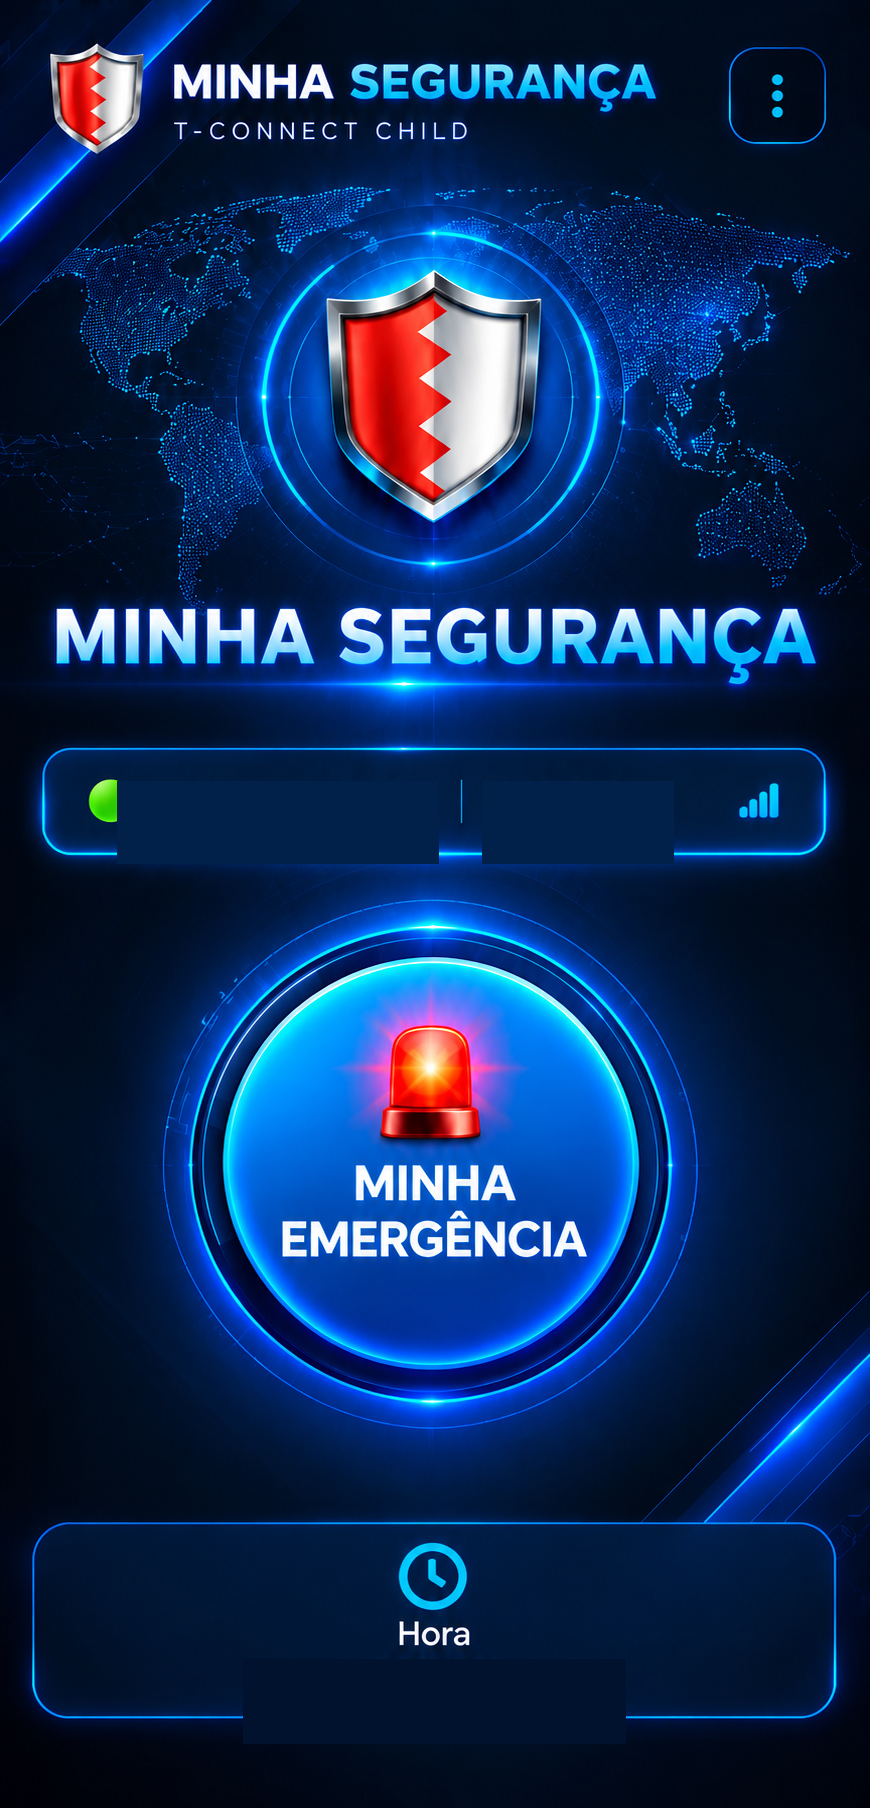
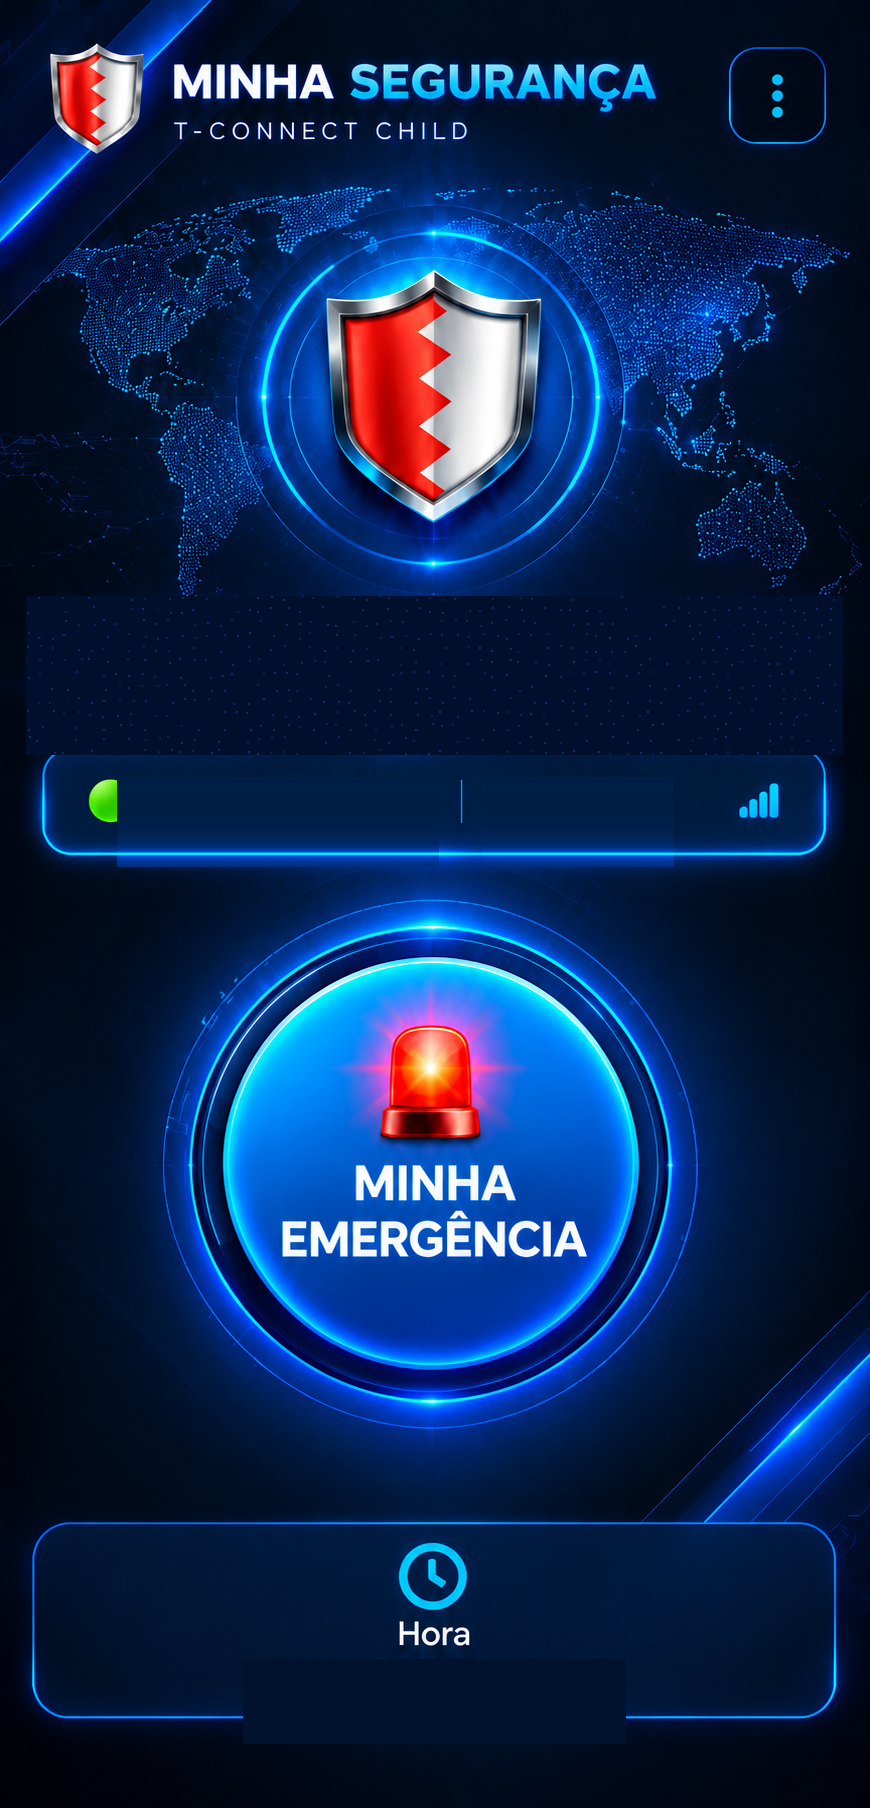
v2.39.42: titulo 'My Security' + pilula sem fundo visivel
- Titulo do meio passa a 'My Security' (azul), com a area reconstruida com a
  textura de pontos do mapa (sem caixa/fundo visivel).
- Pilula de estado: apaguei o valor preservando o gradiente real da pilula, por
  isso deixa de aparecer o fundo/caixa; estado ajustado para caber (rotulos curtos).
- Horas continuam ao vivo; botao anima ao clicar; menu no mesmo design.

Claude-Session: https://claude.ai/code/session_01Jn9EH4saRaSywTbMPe9pV1

Changed region(s): [[0.0621, 0.3097, 0.9621, 0.4336], [0.1241, 0.4646, 0.5276, 0.4956], [0.5586, 0.4646, 0.7759, 0.4956]]

diff --git a/tconnect/android-native/app/src/main/assets/tc236/child/js/app.js b/tconnect/android-native/app/src/main/assets/tc236/child/js/app.js
@@ -391,7 +391,14 @@ function render(){
 }
 function pairView(){return `<section class="childbox" id="pairing-area"><div class="shield">⌁</div><h1>Vincular dispositivo</h1>${state.deviceCode?`<div class="notice" role="status">Já vinculado como <b>${esc(state.deviceName||'Child')}</b>. Pode revincular aqui ou <button class="text-btn" style="color:#38bdf8;background:none;border:0;cursor:pointer;text-decoration:underline" onclick="state.forcePair=false;render()">voltar ao painel</button>.</div>`:''}<p>Comece diretamente pelo QR Code, código ou link criado pelo Guardian. Não é necessário fazer login neste aplicativo.</p>${state.pairMessage?`<div class="notice" role="status">${esc(state.pairMessage)}</div>`:''}<div class="pair-tabs"><button class="btn primary" onclick="document.getElementById('qr-section').hidden=false;document.getElementById('code-section').hidden=true;document.getElementById('link-section').hidden=true;startQr()">▣ Ler QR Code</button><button class="btn" onclick="stopQr();document.getElementById('qr-section').hidden=true;document.getElementById('code-section').hidden=false;document.getElementById('link-section').hidden=true"># Código</button><button class="btn" onclick="stopQr();document.getElementById('qr-section').hidden=true;document.getElementById('code-section').hidden=true;document.getElementById('link-section').hidden=false">↗ Link</button></div><div id="qr-section" class="qr-child-section"><div id="qr-reader"></div><small>O QR é lido diretamente no aplicativo Minha Segurança.</small></div><div id="code-section" hidden><form onsubmit="pair(event)" class="pair-form"><label>Código de vinculação<input name="invite" required inputmode="text" autocomplete="one-time-code" maxlength="32" pattern="[A-Za-z0-9][A-Za-z0-9 -]{5,31}" placeholder="Ex.: A1B2C3D4"></label><button class="btn primary wide">Vincular código</button></form></div><div id="link-section" hidden><form onsubmit="useInviteLink(event)" class="pair-form"><label>Link do convite<input name="inviteLink" required placeholder="Cole o link do Guardian"></label><button class="btn primary wide">Abrir convite</button></form></div></section>`}
 // Estado ao vivo (sem a hora) e hora atual — como funcionava no design anterior.
-function tcChildStatusText(){ return String(state.status||'A proteger').replace(/\s*·?\s*\d{1,2}:\d{2}:\d{2}.*$/,'').trim()||'A proteger'; }
+function tcChildStatusText(){
+  var s=String(state.status||'');
+  if(/offline/i.test(s)) return 'Offline';
+  if(/enviado|heartbeat/i.test(s)) return 'Protegido';
+  if(/tentar/i.test(s)) return 'A enviar…';
+  var t=s.replace(/\s*·?\s*\d{1,2}:\d{2}:\d{2}.*$/,'').trim();
+  return t||'Protegido';
+}
 function tcChildTime(){ return new Date().toLocaleTimeString('pt-PT'); }
 // Painel = imagem EXATA do design, com texto ao vivo (estado + horas) e botões
 // funcionais por cima (emergência animado ao clicar, e menu).
@@ -399,6 +406,7 @@ function linkedView(){
   const st=esc(tcChildStatusText()); const time=esc(tcChildTime());
   return `<div class="ch-exact"><div class="ch-exact-inner">
     <img class="ch-exact-img" src="../assets/ui/child-home.png" alt="Minha Segurança" draggable="false">
+    <span class="ch-ov ch-ov-title">My Security</span>
     <span class="ch-ov ch-ov-status">${st}</span>
     <span class="ch-ov ch-ov-ptime" data-clock>${time}</span>
     <span class="ch-ov ch-ov-btime" data-clock>${time}</span>

diff --git a/tconnect/android-native/app/src/main/assets/tc236/child/css/style.css b/tconnect/android-native/app/src/main/assets/tc236/child/css/style.css
@@ -26,7 +26,8 @@ body{background:#04101f}
 .ch-exact-img{position:absolute;inset:0;width:100%;height:100%;object-fit:fill;z-index:1;user-select:none;-webkit-user-drag:none;pointer-events:none}
 /* textos ao vivo (por cima das zonas apagadas da imagem) */
 .ch-ov{position:absolute;z-index:3;font-family:system-ui,-apple-system,"Segoe UI",Roboto,sans-serif;font-weight:800;white-space:nowrap;line-height:1;pointer-events:none;text-shadow:0 1px 3px rgba(0,8,20,.55)}
-.ch-ov-status{left:15.5%;top:45.9%;transform:translateY(-50%);color:#eef5fb;font-size:4.2cqw;letter-spacing:0}
+.ch-ov-title{left:50%;top:37.3%;transform:translate(-50%,-50%);font-weight:900;font-size:11cqw;letter-spacing:.5px;background:linear-gradient(180deg,#eef8ff 0%,#9fd4ff 48%,#1f86ff 100%);-webkit-background-clip:text;background-clip:text;-webkit-text-fill-color:transparent;color:transparent;filter:drop-shadow(0 0 16px rgba(45,150,255,.55)) drop-shadow(0 2px 4px rgba(0,16,50,.6));text-shadow:none}
+.ch-ov-status{left:15.5%;top:45.9%;transform:translateY(-50%);color:#eef5fb;font-size:3.9cqw;letter-spacing:0;max-width:35.5cqw;overflow:hidden;text-overflow:ellipsis}
 .ch-ov-ptime{left:66%;top:45.9%;transform:translate(-50%,-50%);color:#eef5fb;font-size:4.4cqw;font-variant-numeric:tabular-nums;letter-spacing:.3px}
 .ch-ov-btime{left:50%;top:94.2%;transform:translate(-50%,-50%);color:#1ec8ff;font-size:5.4cqw;font-variant-numeric:tabular-nums;letter-spacing:1px}
 /* botão de menu (⋮) transparente sobre o canto superior direito */

diff --git a/tconnect/android-native/app/src/main/assets/tc236/guardian/js/app.js b/tconnect/android-native/app/src/main/assets/tc236/guardian/js/app.js
@@ -1,4 +1,4 @@
-window.TC_APP_VERSION='2.39.41';try{if(window.TCNativeApp&&window.TCNativeApp.getVersion){var _tcv=window.TCNativeApp.getVersion();if(_tcv)window.TC_APP_VERSION=_tcv;}}catch(e){}
+window.TC_APP_VERSION='2.39.42';try{if(window.TCNativeApp&&window.TCNativeApp.getVersion){var _tcv=window.TCNativeApp.getVersion();if(_tcv)window.TC_APP_VERSION=_tcv;}}catch(e){}
 const tcTimeout=(p,ms=10000)=>Promise.race([p,new Promise((_,rej)=>setTimeout(()=>rej(new Error('Tempo esgotado')),ms))]);
 const POS=[-25.9692,32.5732];
 const state={page:'overview',mapType:'roadmap',menuOpen:false,pairingBusy:false,pairingMessage:'',update:{auto:localStorage.getItem('tc_auto_updates')!=='0',checking:false,latest:null,error:''},events:JSON.parse(localStorage.getItem('tc_events')||'[]'),notifications:JSON.parse(localStorage.getItem('tc_notifications')||'[]'),search:'',authenticated:false,authMode:'login',loading:false,recoverySent:false,profile:null,devices:[],messages:[],calls:[],contactsList:[],appsList:[],contactStats:[],trailOn:false,commsSub:false,pairCode:'',pairLink:'',realtime:false,authError:'',lastLocation:null,mapTerminalEvents:JSON.parse(localStorage.getItem('tc_map_terminal_events')||'[]')};
